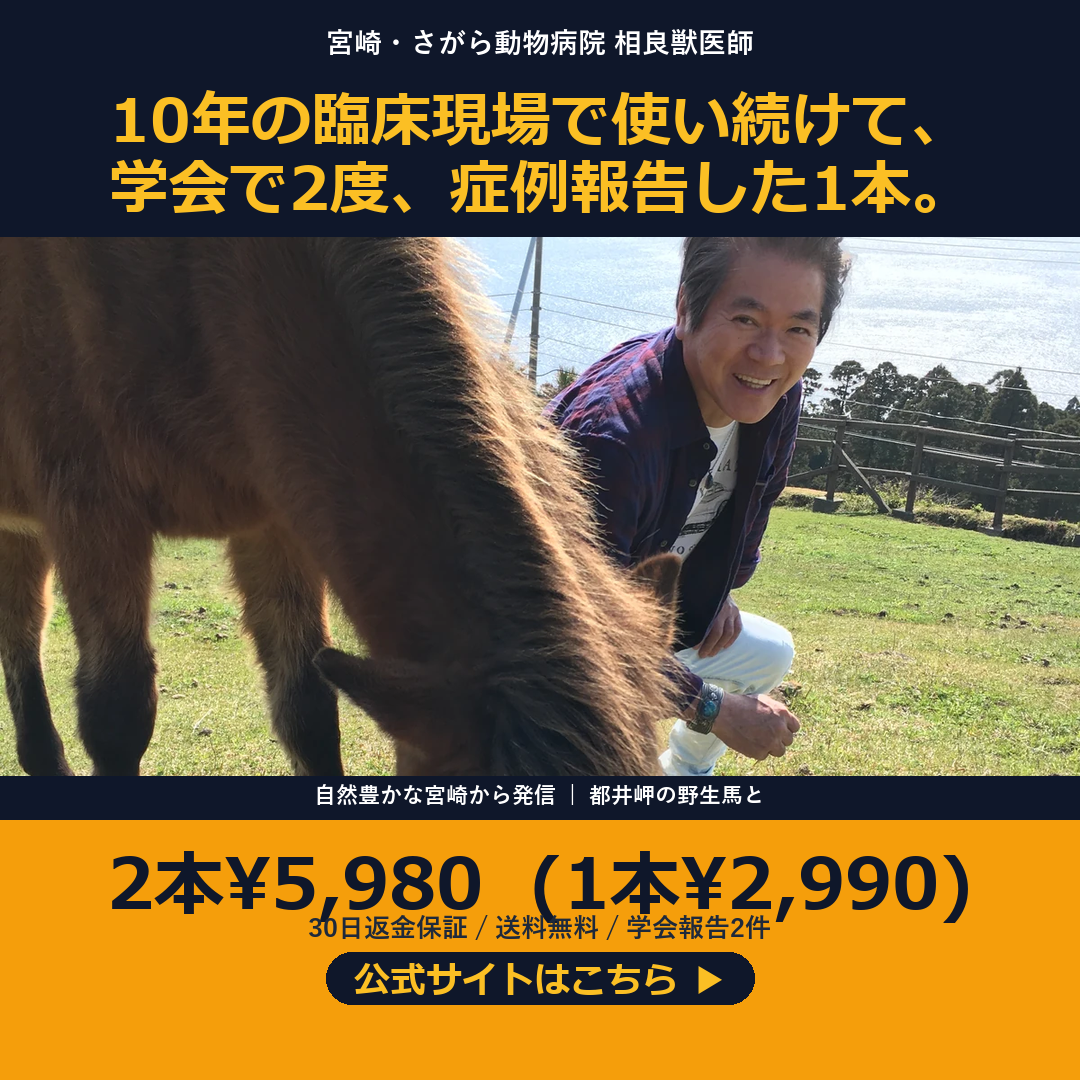
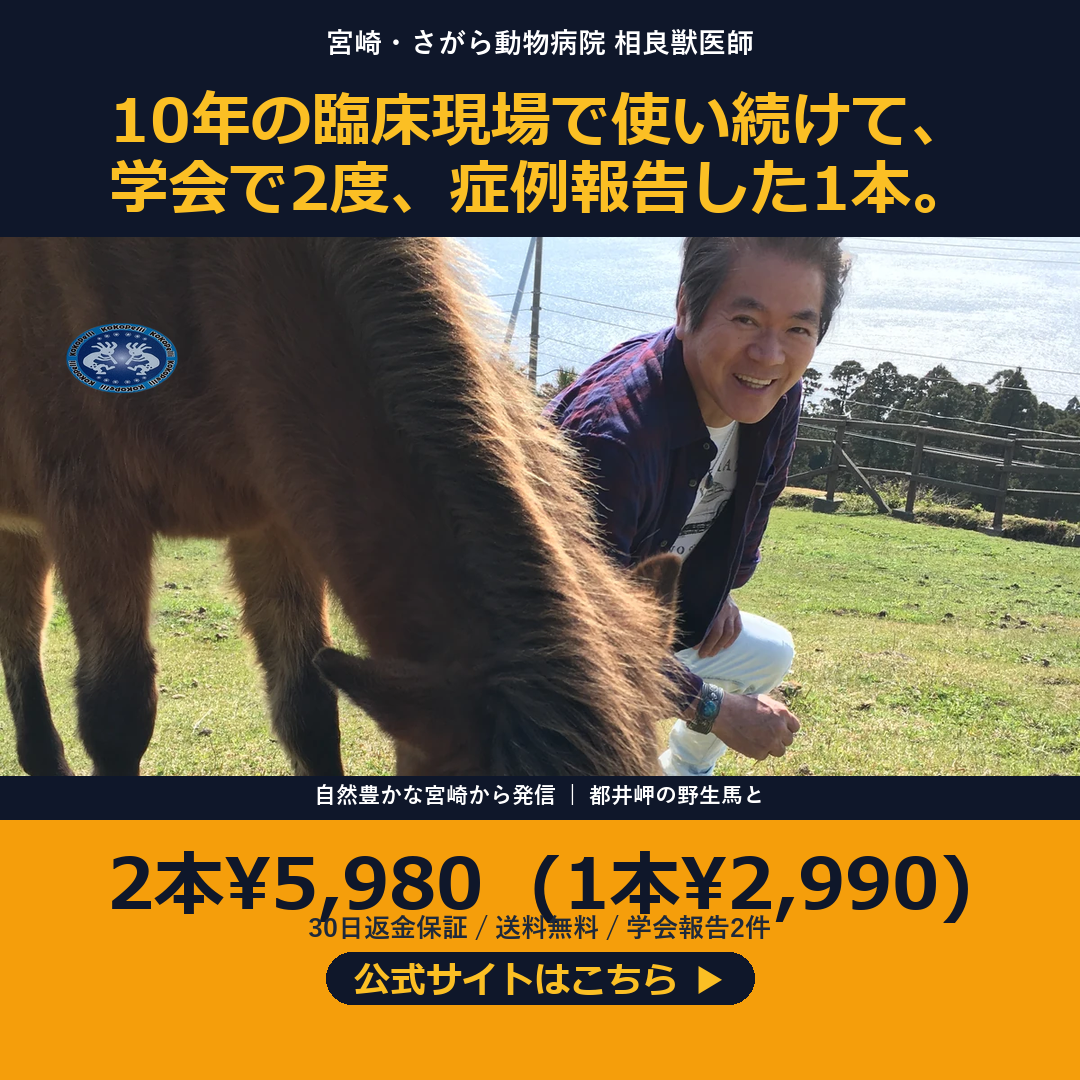
fix(ads): v18バナーにKOKOPELLI商品バッジ追加(欠落補正)
先生写真の左上に product-cut-v2.png を重ね、何の商品の広告かが
ひと目で分かるよう修正。feed/story 両フォーマット更新。

Changed region(s): [[0.0611, 0.275, 0.1833, 0.3667]]

diff --git a/kokopelli-ec/scripts/gen-banner-v18.py b/kokopelli-ec/scripts/gen-banner-v18.py
@@ -89,6 +89,14 @@ def build_feed(out_path: Path):
     pet = fit_image(pet, W, MID_H)
     canvas.paste(pet, (0, TOP_H))
 
+    # 商品バッジ(写真左上)
+    badge_path = ROOT / "ads-v14" / "product-cut-v2.png"
+    if badge_path.exists():
+        badge = Image.open(badge_path).convert("RGBA")
+        bsize = int(MID_H * 0.30)
+        badge = badge.resize((bsize, bsize), Image.LANCZOS)
+        canvas.paste(badge, (24, TOP_H + 20), badge)
+
     # キャプション帯(写真下端)
     cap_h = 44
     cap_y = TOP_H + MID_H - cap_h
@@ -144,6 +152,14 @@ def build_story(out_path: Path):
     pet = Image.open(SRC_PHOTO).convert("RGB")
     pet = fit_image(pet, W, MID_H)
     canvas.paste(pet, (0, TOP_H))
+
+    # 商品バッジ(写真左上)
+    badge_path = ROOT / "ads-v14" / "product-cut-v2.png"
+    if badge_path.exists():
+        badge = Image.open(badge_path).convert("RGBA")
+        bsize = int(MID_H * 0.20)
+        badge = badge.resize((bsize, bsize), Image.LANCZOS)
+        canvas.paste(badge, (32, TOP_H + 30), badge)
 
     cap_h = 64
     cap_y = TOP_H + MID_H - cap_h
